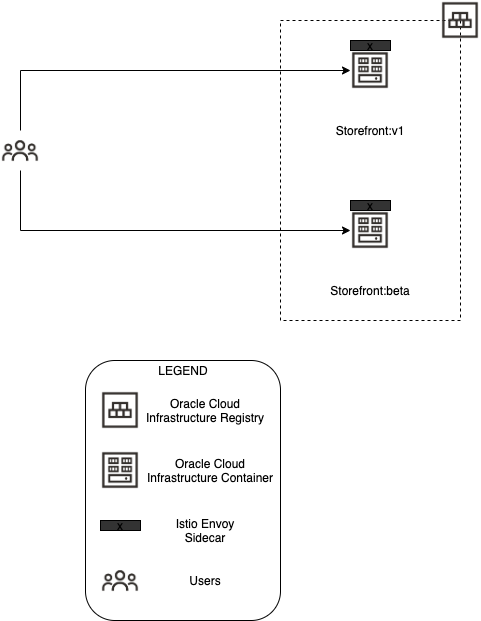
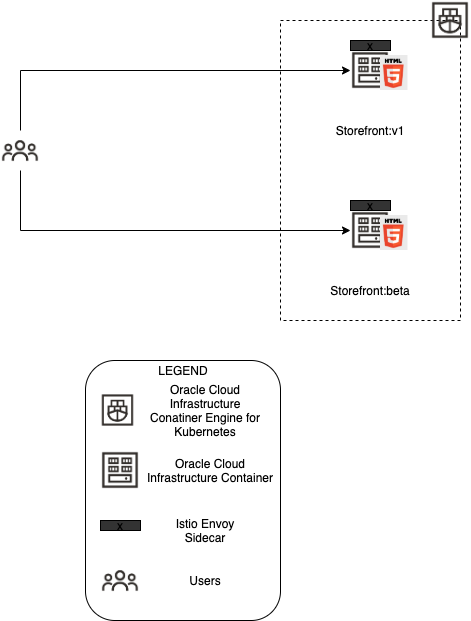
Canary Usecase Documentation

diff --git a/src/docs/content/extras/canary.md b/src/docs/content/extras/canary.md
@@ -16,51 +16,231 @@ Note that this is **OPTIONAL**. This section is only applicable if you have comp
 
 In this section we will demonstrate canary deployment use case on MuShop Application.
 
-We shall have two versions on storefront microservice (storefront:v1 and storefront:betav1) and would split traffic between the two versions. 
-- storefront:betav1 would have a new feature called "reviews" displayed on the UI which would let the user's provide review of their products. 
-- storefront:v1 would not have the reviews feature.
+One of the benefits of the Istio project is that it provides the control needed to deploy canary services. The idea behind canary deployment (or rollout) is to introduce a new version of a service by first testing it using a small percentage of user traffic, and then if all goes well, increase, possibly gradually in increments, the percentage while simultaneously phasing out the old version. If anything goes wrong along the way, we abort and rollback to the previous version. In its simplest form, the traffic sent to the canary version is a randomly selected percentage of requests, but in more sophisticated schemes it can be based on the region, user, or other properties of the request. Read more details [here](https://istio.io/latest/blog/2017/0.1-canary/) 
+
+We shall demonstrate this by using two versions of storefront microservice (storefront:original and storefront:beta) and would split traffic between the two. 
+
+- storefront:original would be the original page which does not have the reviews feature.
+- storefront:beta would have a new feature called "reviews" displayed on the UI which would let the user's provide review for their products. 
+
+Note: The builds storefront:original and storefront:beta naming conventions are used here for easier understanding. 
+Later during the procedure we will use the exact build version. 
 
 Lets look at the diagram which would explain the same
 
 ![MuShop Canary Deployment](../images/mesh/mushop-canary.png)
 
 {{% alert style="warning" icon="warning" %}}
-The path between users and storefront has many layers (DNS->WAF->LB->INGRESS->Router->Storefront). Refer https://mushop.ateam.cloud/about.html
+The path between users and storefront has many layers ( DNS -> WAF -> LB -> INGRESS -> Router -> Storefront), The above figure shown is high level. Refer https://mushop.ateam.cloud/about.html for more details.
 {{% /alert %}}
 
-In this exercise we will:
-
-1. Access the MuShop application without the Review feature.
-1. Deploy Storefront:betav1 microservice on Kubernetes.
-1. Configure Istio Gateway and VirtualService (http routing).
-1. Access the Mushop application with the Review feature.
-1. Determine the Issues with the Review feature.
-1. RollBack the Canary Deployment.
-
-
-We would configure and run the storefront services in an Istio-enabled environment, with Envoy sidecars injected along side each service. We configure the Istio http routing by creating a VirtualService object. Storefront images are available on the Oracle Cloud Infrastructure Registry. We would use them create a kubernetes deployment.
+We would configure and run the storefront services in an Istio-enabled environment, with Envoy sidecars injected along side each service. We configure the Istio http routing by creating a VirtualService object. Storefront images are available on the Oracle Cloud Infrastructure Registry. We would use them to create a kubernetes deployment.
 
 ## Pre-Requisites:
 
+Deploy [Mushop]({{< ref "quickstart/kubernetes.md" >}})
+
 Download and install [Istio Service Mesh]({{< ref "istio.md" >}})
 
-## Creating Istio resources
+## Deploy storefront beta
+ 
+ - Create a deployment with the below config and name it mushop-storefrontv2.
+   Note: We will use the same labels of storefront original.
 
-1. Deploy a Gateway resource
-<To Do>
-2. Deploy a VirtualService
-<To Do>
-3. Open a browser with the EXTERNAL-IP of the Istio ingress gateway
-<To Do>
+  ```shell--macos-linux
+    cat << EOF | kubectl apply -f -
+    apiVersion: extensions/v1beta1
+    kind: Deployment
+    metadata:
+      labels:
+        app.kubernetes.io/instance: mushop
+        app.kubernetes.io/name: storefront
+      name: mushop-storefrontv2
+      namespace: mushop
+    spec:
+      replicas: 1
+      selector:
+        matchLabels:
+          app: storefront
+          app.kubernetes.io/instance: mushop
+          app.kubernetes.io/name: storefront
+      template:
+        metadata:
+          labels:
+            app: storefront
+            app.kubernetes.io/instance: mushop
+            app.kubernetes.io/name: storefront
+            version: 2.1.3
+        spec:
+          containers:
+          - image: syd.ocir.io/ociateam/mushop/storefront:beta
+            imagePullPolicy: Always
+            name: storefront
+    EOF
+  ```
 
-## Notice the issues:
+
+## Create Istio resources
+
+- Deploy a Gateway resource
+
+  ```shell--macos-linux
+    cat << EOF | kubectl apply -f -
+    apiVersion: networking.istio.io/v1alpha3
+    kind: Gateway
+    metadata:
+      name: gateway
+      namespace: mushop
+    spec:
+      selector:
+        istio: ingressgateway
+      servers:
+        - port:
+            number: 80
+            name: http
+            protocol: HTTP
+          hosts:
+            - '*'
+    EOF
+    ```
+
+- Deploy a VirtualService and DestinationRules
+  
+  ```shell--macos-linux
+    cat <<EOF | kubectl apply -f -
+    apiVersion: networking.istio.io/v1alpha3
+    kind: VirtualService
+    metadata:
+      name: edge
+      namespace: mushop
+    spec:
+      hosts:
+        - '*'
+      gateways:
+        - gateway
+      http:
+      - match:
+        - uri:
+            prefix: /api
+        route:
+        - destination:
+            host: mushop-api.mushop.svc.cluster.local
+      - match:
+        - uri:
+            prefix: /assets
+        rewrite:
+          uri: /
+        route:
+        - destination:
+            host: mushop-assets.mushop.svc.cluster.local
+      - route:
+        - destination:
+            host: mushop-storefront.mushop.svc.cluster.local
+            port:
+              number: 80
+            subset: original
+          weight: 50
+        - destination:
+            host: mushop-storefront.mushop.svc.cluster.local
+            port:
+              number: 80
+            subset: beta
+          weight: 50
+        EOF
+    ```
+
+   - Destination Rule:
+    
+    ```shell--macos-linux
+    cat <<EOF | k apply -f -
+    apiVersion: networking.istio.io/v1alpha3
+    kind: DestinationRule
+    metadata:
+      name: reviews-destination
+    spec:
+      host: mushop-storefront.mushop.svc.cluster.local
+      subsets:
+      - name: original
+        labels:
+          version: 2.1.2
+      - name: beta
+        labels:
+          version: 2.1.3
+    EOF
+    ```
+
+- Open a browser with the EXTERNAL-IP of the Istio ingress gateway
+  
+  ```shell--macos-linux
+    kubectl get svc istio-ingressgateway \
+      --namespace istio-system
+    ```
+
+    > Locating `EXTERNAL-IP` for Istio Ingress Gateway. **NOTE** this will be
+    [localhost](https://localhost) on local clusters.
+    
+## Testing
+
+ Open a Incognito/Private window of a browser and access http://EXTERNAL-IP/.
+ 
+ Try to refresh the URL and you would see two different storefront UI's (original and beta with review feature) in a round robin fashion (because we have set 50:50 as the weight).
+ 
+{{% alert style="warning" icon="info" %}}
+You can also increase the percentage of traffic from 50:50 to 90:10. We could also do more
+ focused canary testing using Header and URI matching [refer](https://istio.io/latest/blog/2017/0.1-canary/#focused-canary-testing) 
+
+{{% /alert %}}
+
+
+## Noticing the issues
+
 - Review page ratings star icon wont fill when clicked. 
-- On the main page the ratings icon does not fit within the product cards.
 
 ## Roll Back
-<To Do>
+
+- We would change the Routing back to default as below
+
+  ```shell--macos-linux
+    cat <<EOF | kubectl apply -f -
+    apiVersion: networking.istio.io/v1alpha3
+    kind: VirtualService
+    metadata:
+      name: edge
+      namespace: mushop
+    spec:
+      hosts:
+        - '*'
+      gateways:
+        - gateway
+      http:
+      - match:
+        - uri:
+            prefix: /api
+        route:
+        - destination:
+            host: mushop-api.mushop.svc.cluster.local
+      - match:
+        - uri:
+            prefix: /assets
+        rewrite:
+          uri: /
+        route:
+        - destination:
+            host: mushop-assets.mushop.svc.cluster.local
+      - route:
+        - destination:
+            host: mushop-storefront.mushop.svc.cluster.local
+            port:
+              number: 80
+    EOF
+    ```
 
 ## Cleanup
-<To Do>
 
+Uninstall Istio by passing the generated manifests into `kubectl delete`
+
+```shell
+istioctl manifest generate --set profile=demo | kubectl delete -f -
+```
+Mushop Cleanup [refer]({{< ref "cleanup/_index.md" >}})
 
